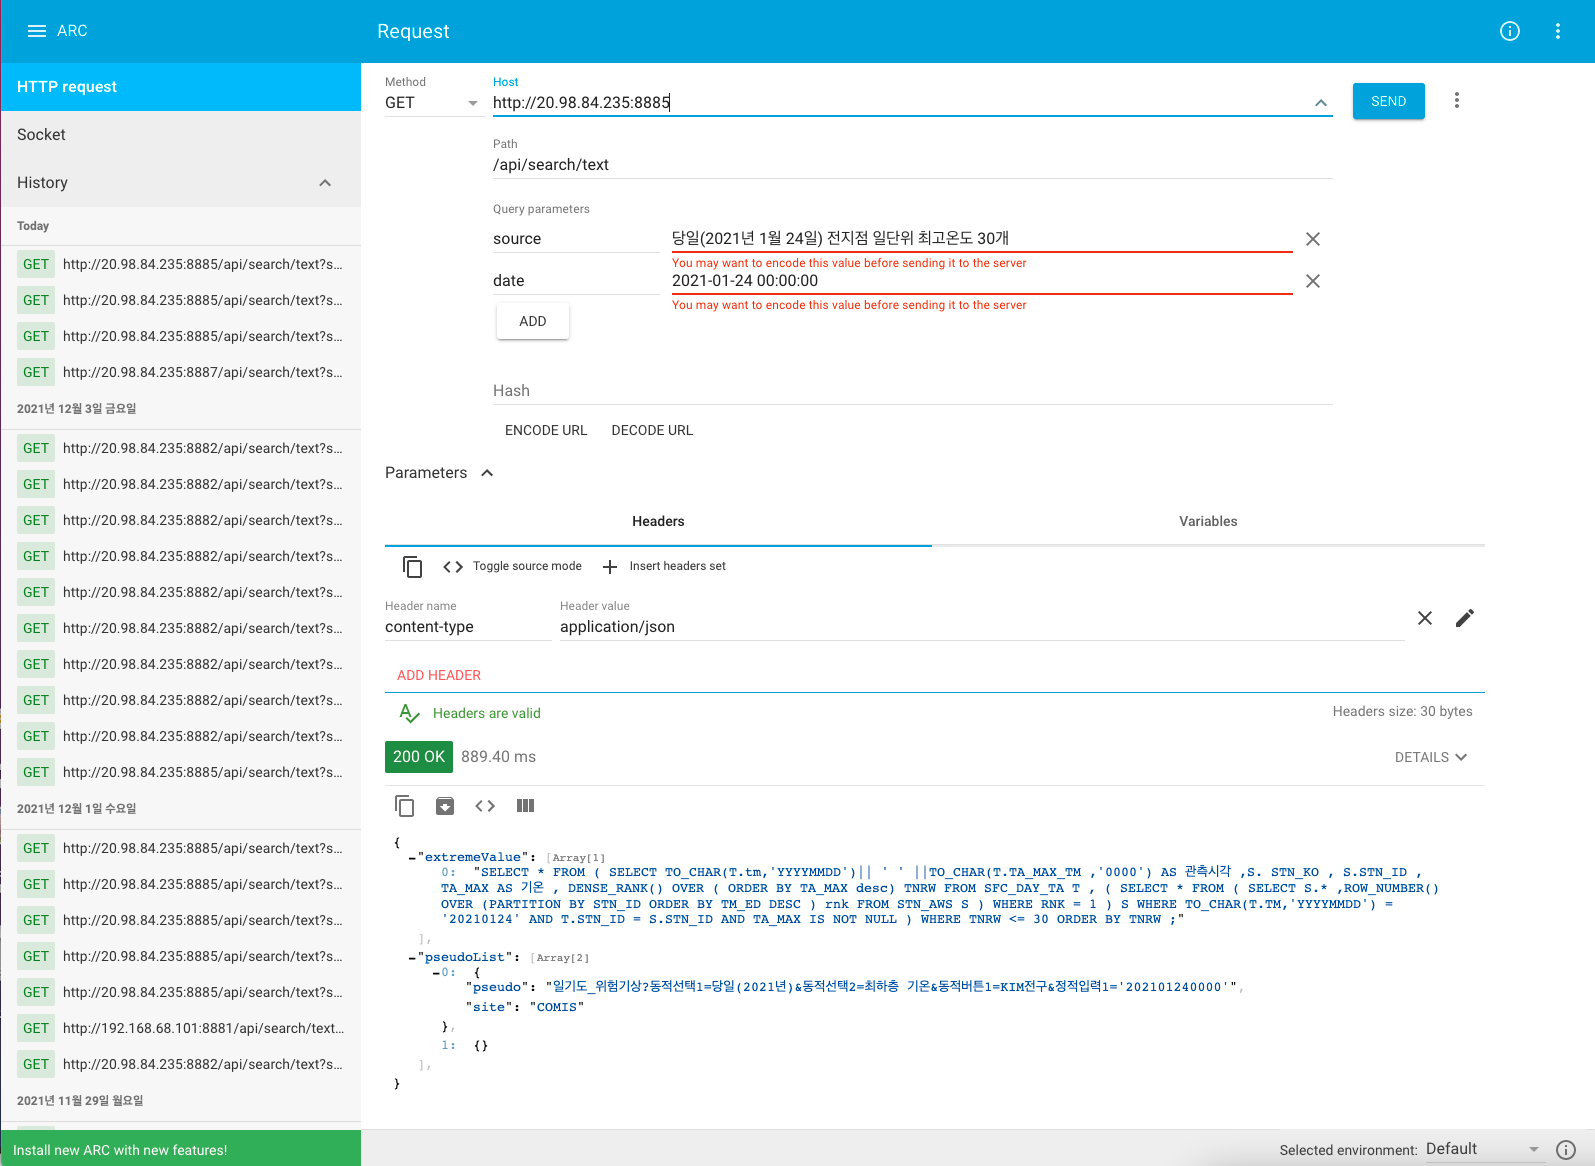
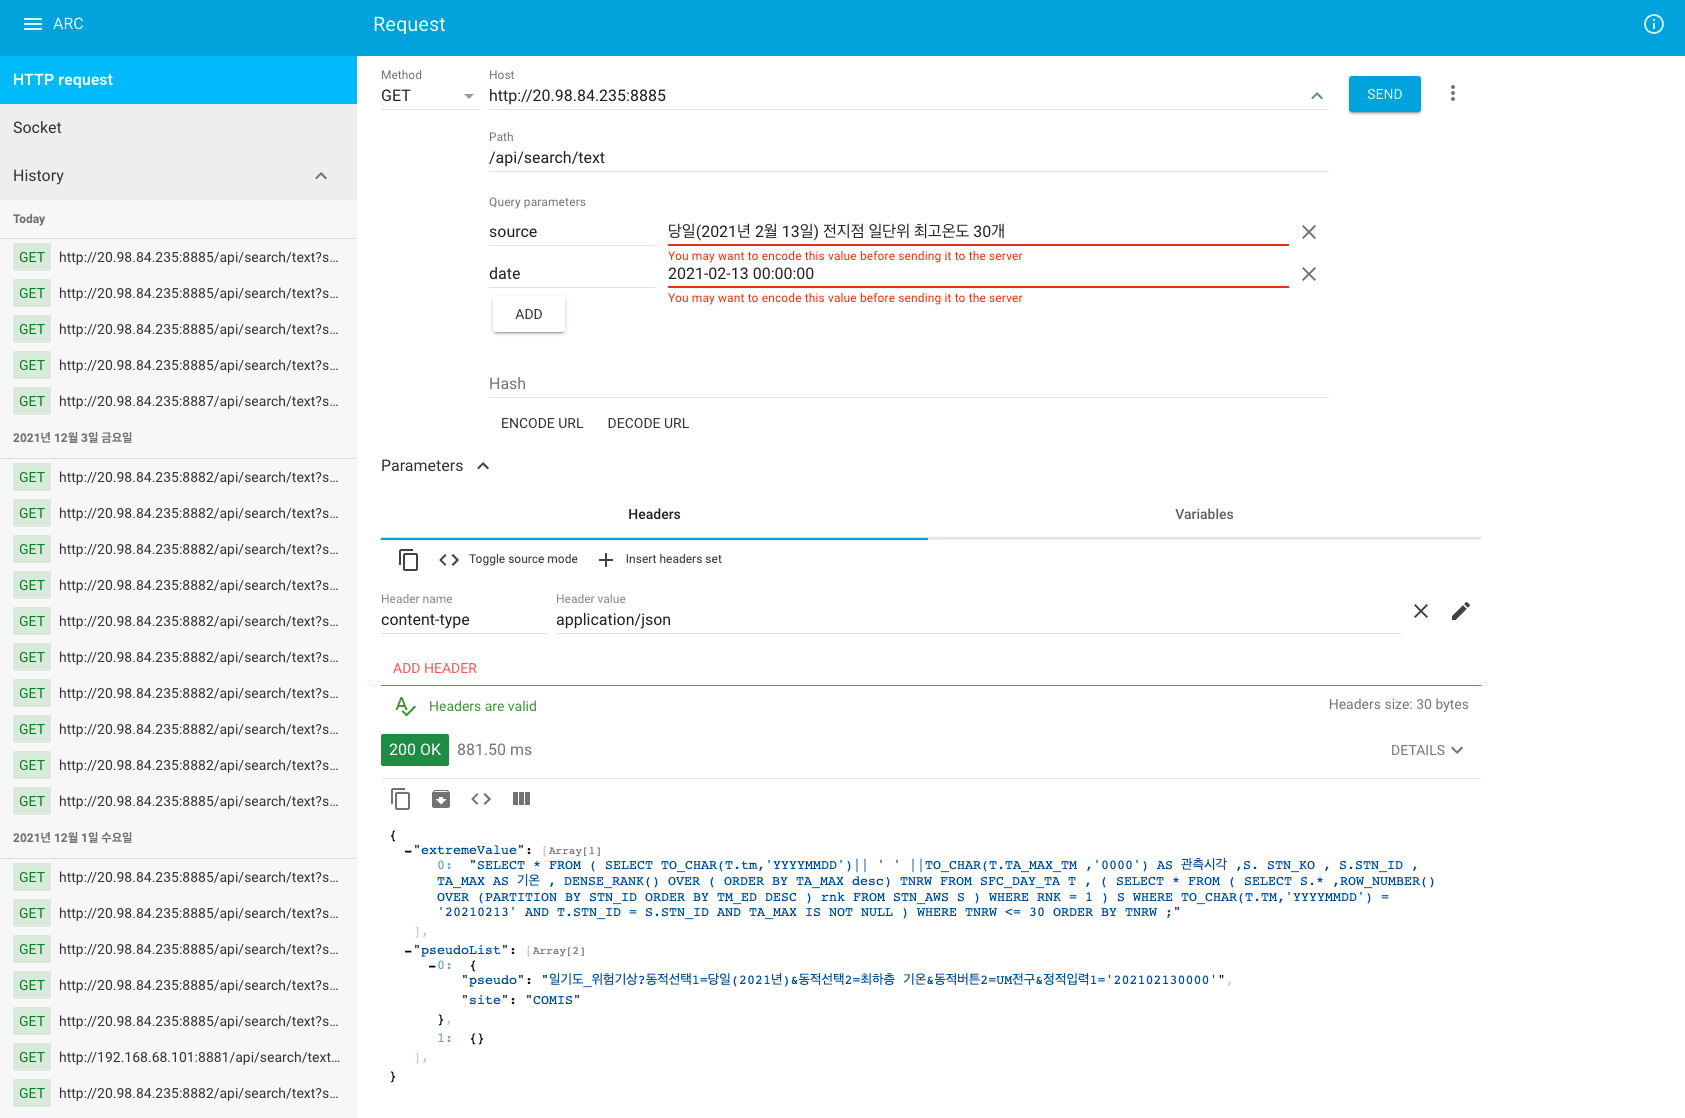
Last update please

diff --git a/README.md b/README.md
@@ -19,6 +19,8 @@ sudo docker run -d -p 8887:8887 --gpus all msyoon8/weather:latest python3 home/K
 - GET 형태 url 예시: `http://20.98.84.235:8882/api/search/text?source=2021 강수확률 가장 높은 날&date=2021-10-18 00:00:00`
 ## Example
 
+#### 예제1
+
 ![ex1](./ex1.png)
 input: 전기간 전지점 일단위 최고온도 3개
 
@@ -30,21 +32,35 @@ SELECT * FROM ( SELECT TO_CHAR(T.tm,'YYYYMMDD')|| ' ' ||TO_CHAR(T.TA_MAX_TM ,'00
 
 output URL: `일기도_위험기상?동적선택1=전지구모델비교&동적선택2=KLAPS&동적버튼1=KIM전구&정적입력='202101240000`
 
+output from sample DB: (encoding문제로 한국어 깨져보임)
+
+![out1](./out1.png)
+
+
+
+-----------------
+
+#### 예제2
 
 
 ![ex2](./ex2.png)
 
-input: 당일(2021년 1월 24일) 전지점 일단위 최고온도 30개
+input: 당일(2021년 2월 13일) 전지점 일단위 최고온도 30개
 
 output SQL: 
 
 ``` SQL
-SELECT * FROM ( SELECT TO_CHAR(T.tm,'YYYYMMDD')|| ' ' ||TO_CHAR(T.TA_MAX_TM ,'0000') AS 관측시각 ,S. STN_KO , S.STN_ID , TA_MAX AS 기온 , DENSE_RANK() OVER ( ORDER BY TA_MAX desc) TNRW FROM SFC_DAY_TA T , ( SELECT * FROM ( SELECT S.* ,ROW_NUMBER() OVER (PARTITION BY STN_ID ORDER BY TM_ED DESC ) rnk FROM STN_AWS S ) WHERE RNK = 1 ) S WHERE TO_CHAR(T.TM,'YYYYMMDD') = '20210124' AND T.STN_ID = S.STN_ID AND TA_MAX IS NOT NULL ) WHERE TNRW <= 30 ORDER BY TNRW ;
+SELECT * FROM ( SELECT TO_CHAR(T.tm,'YYYYMMDD')|| ' ' ||TO_CHAR(T.TA_MAX_TM ,'0000') AS 관측시각 ,S. STN_KO , S.STN_ID , TA_MAX AS 기온 , DENSE_RANK() OVER ( ORDER BY TA_MAX desc) TNRW FROM SFC_DAY_TA T , ( SELECT * FROM ( SELECT S.* ,ROW_NUMBER() OVER (PARTITION BY STN_ID ORDER BY TM_ED DESC ) rnk FROM STN_AWS S ) WHERE RNK = 1 ) S WHERE TO_CHAR(T.TM,'YYYYMMDD') = '20210213' AND T.STN_ID = S.STN_ID AND TA_MAX IS NOT NULL ) WHERE TNRW <= 30 ORDER BY TNRW;
 ```
 
 output URL: 
 
-`일기도_위험기상?동적선택1=당일(2021년)&동적선택2=최하층 기온&동적버튼1=KIM전구&정적입력1='202101240000`
+`일기도_위험기상?동적선택1=당일(2021년 )&동적선택2=최하층 기온&동적버튼2=UM전구&정적입력1='202102130000'`
+
+output from sample DB:
+
+![out2](./out2.png)
+
 
 - [advanced rest client](https://chrome.google.com/webstore/detail/advanced-rest-client/hgmloofddffdnphfgcellkdfbfbjeloo/related) 를 이용해 정상 동작 여부를 확인하였습니다.
 
